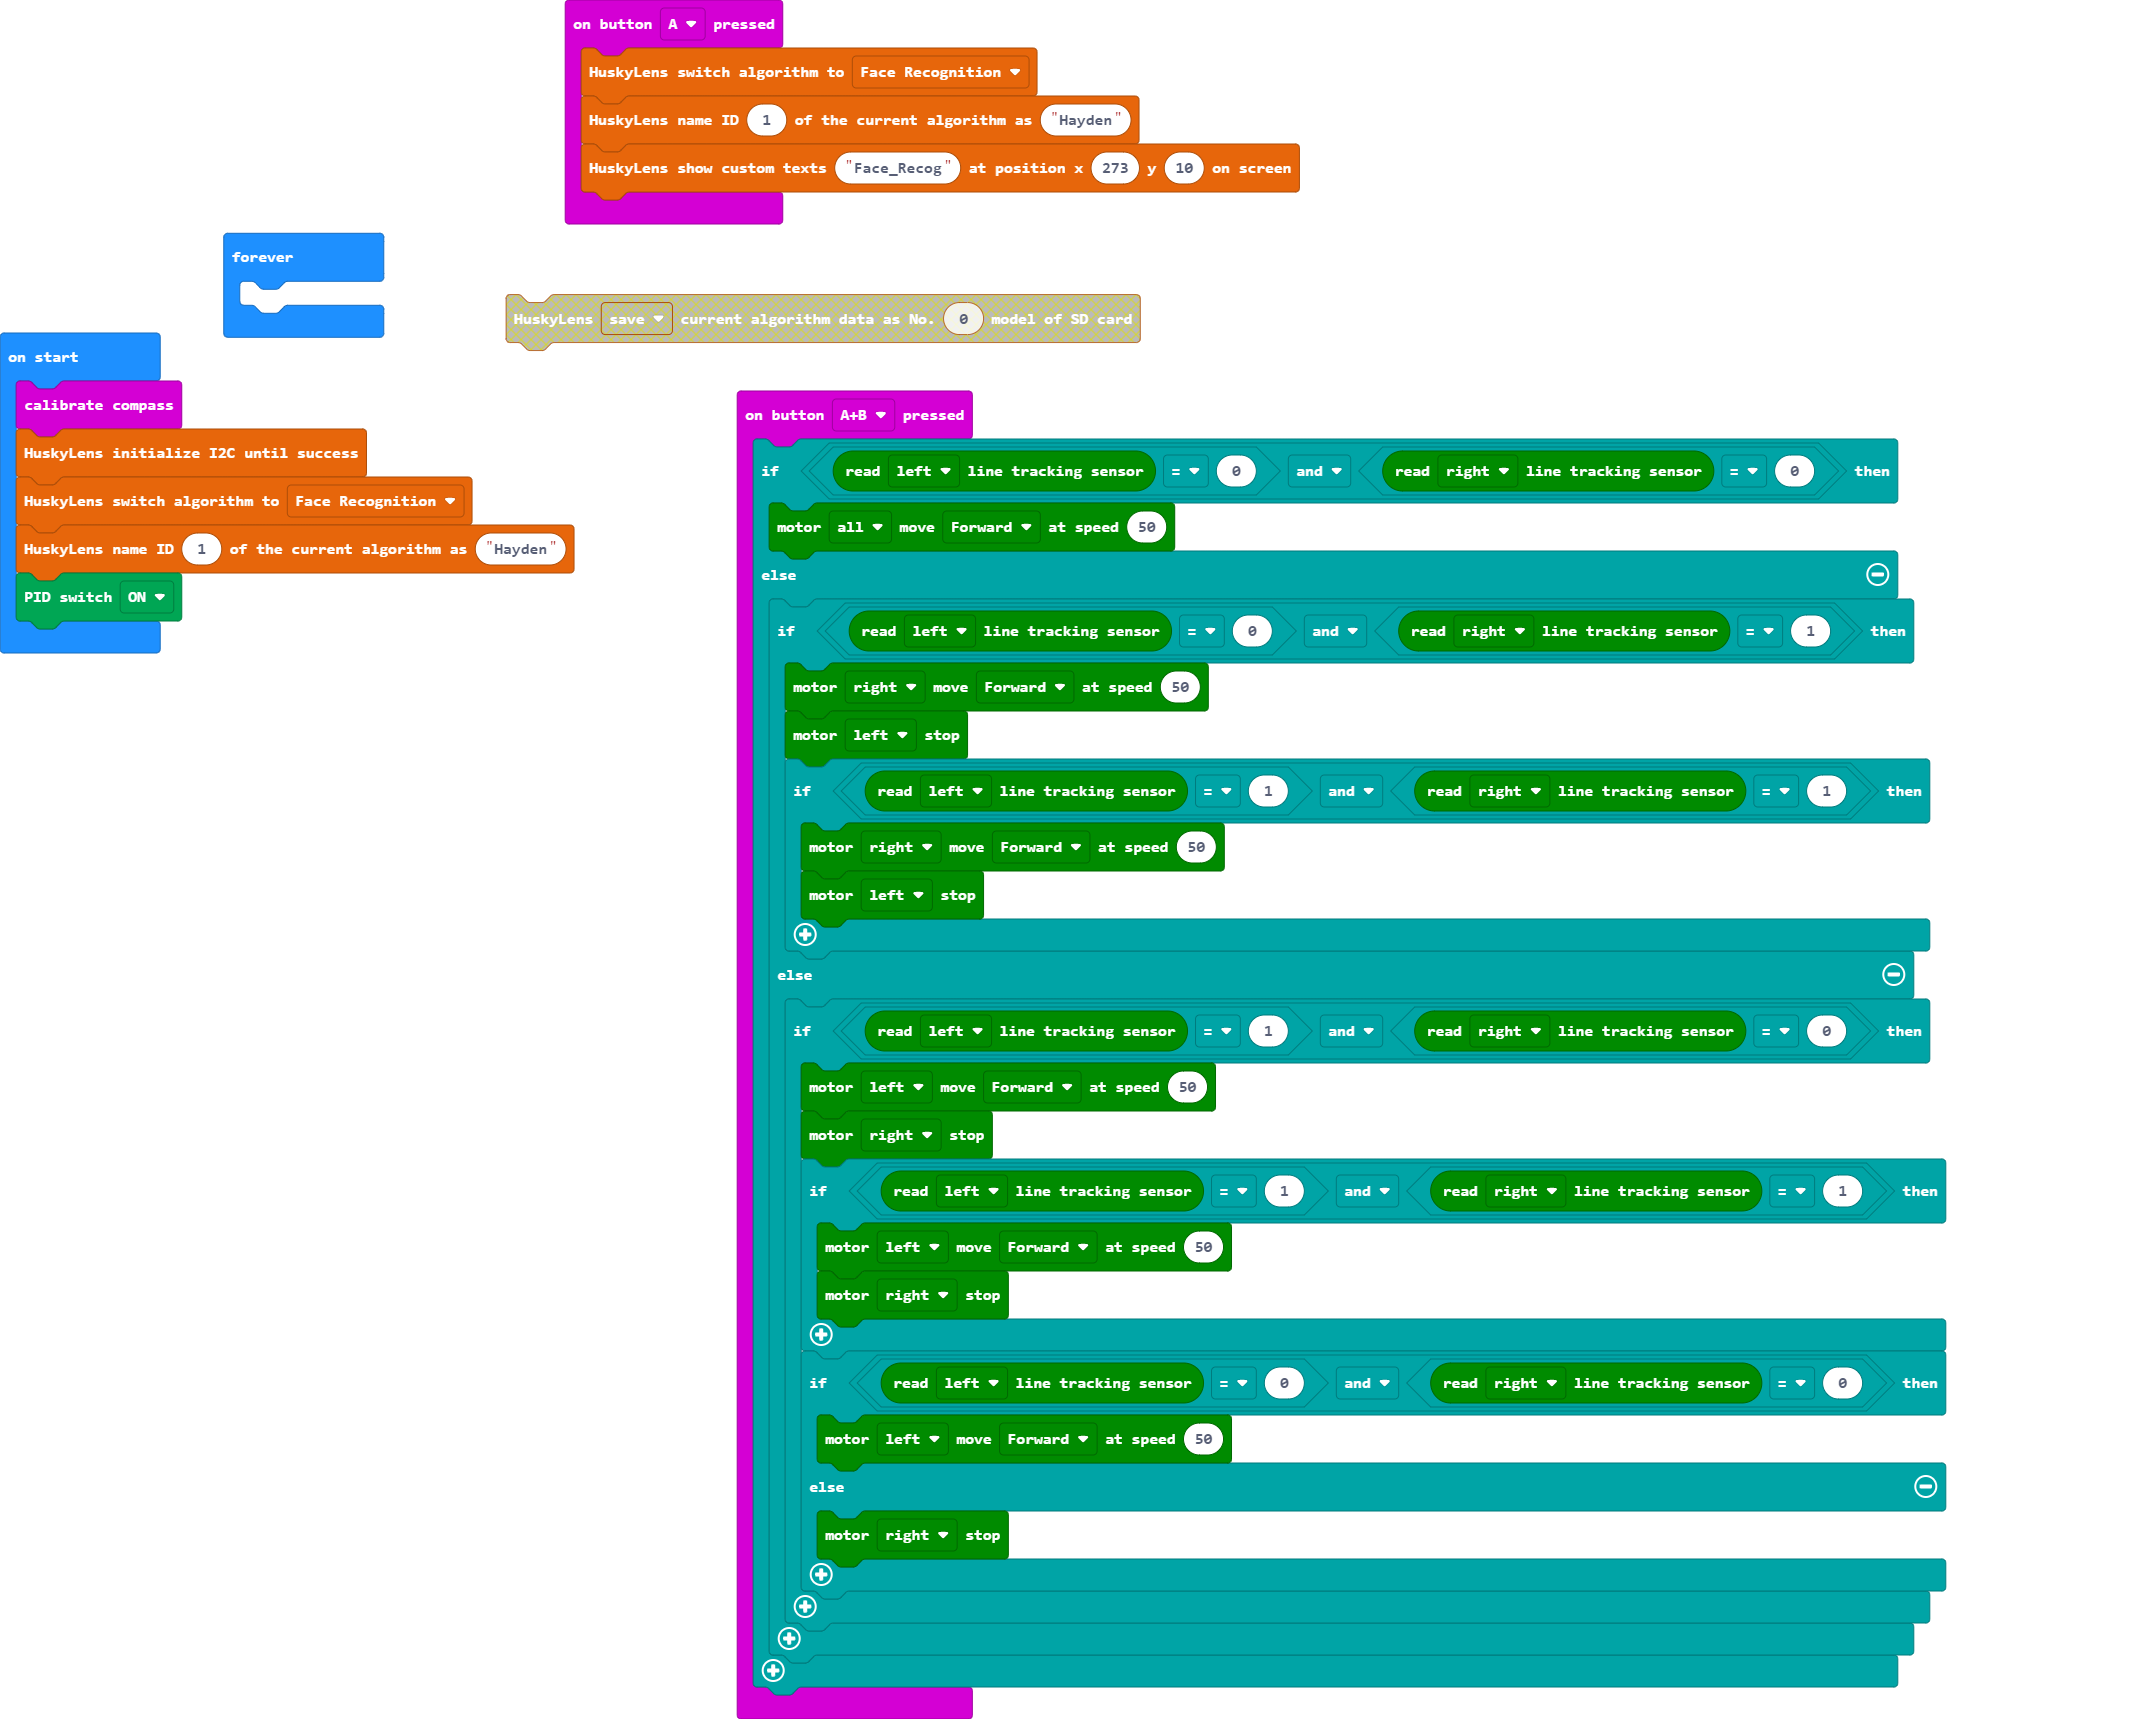
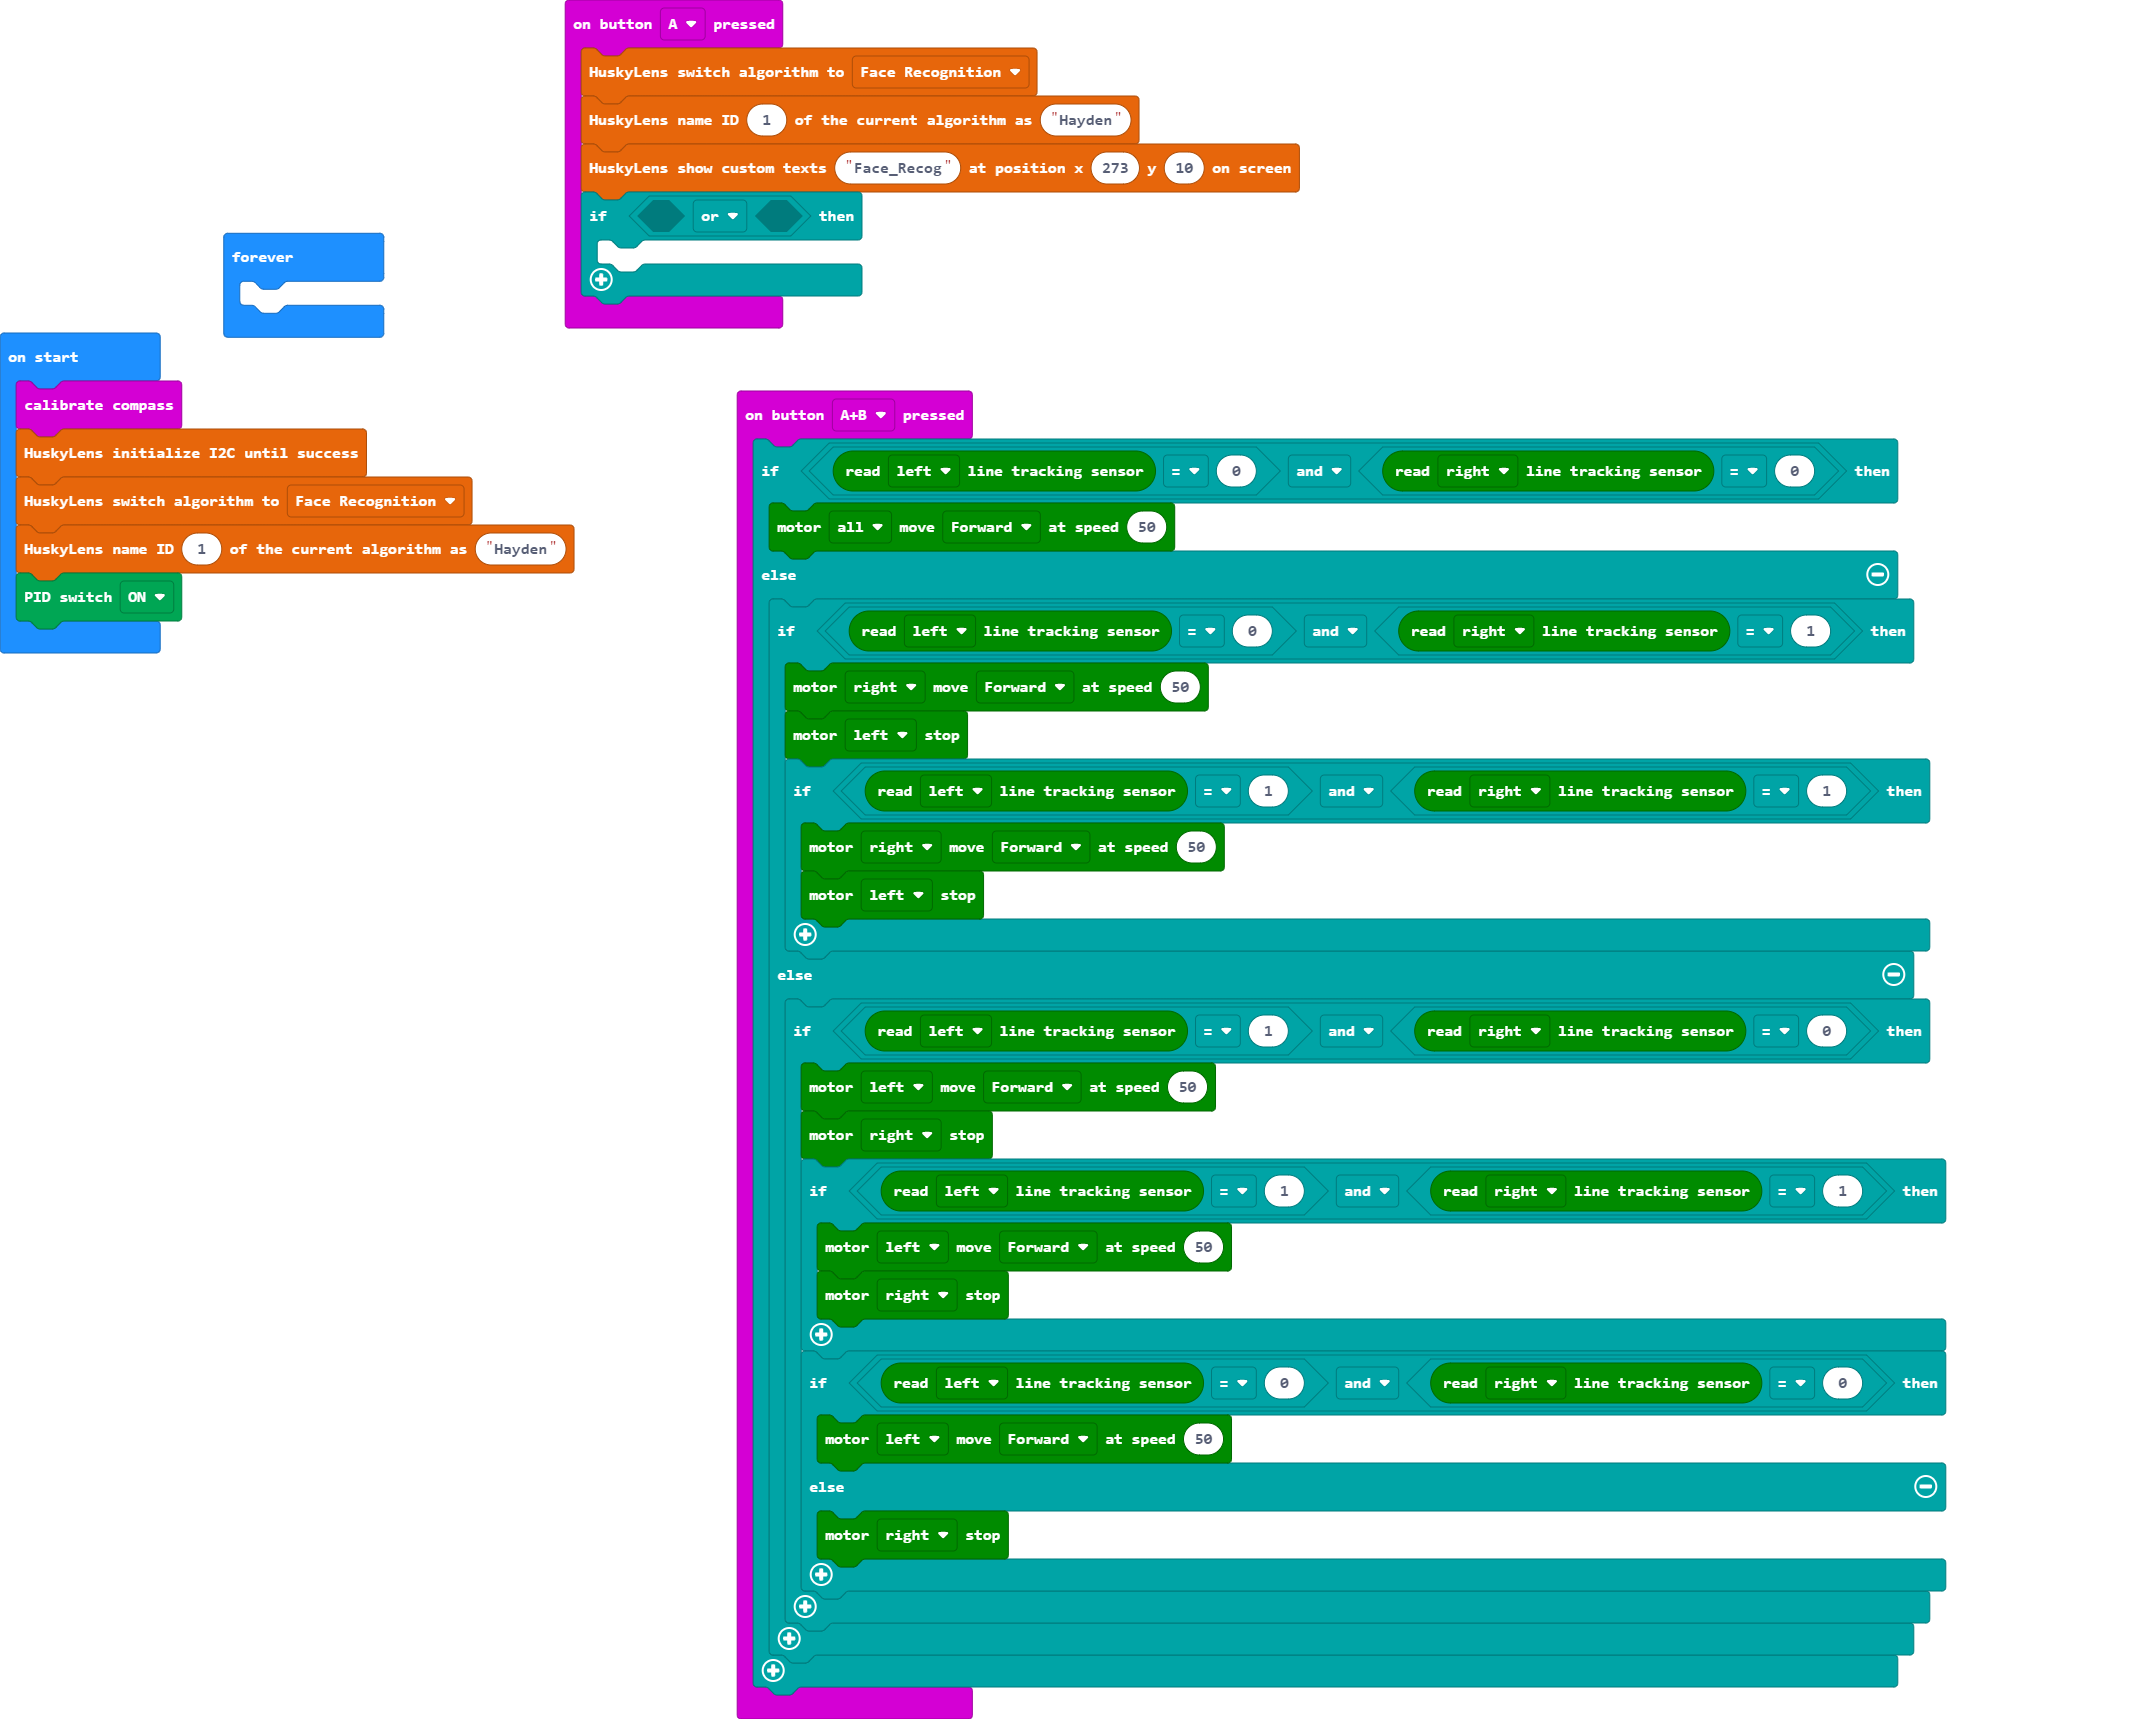
Update main.blocks, main.ts

Changed region(s): [[0.2177, 0.0925, 0.5288, 0.2158]]

diff --git a/main.ts b/main.ts
@@ -2,6 +2,9 @@ input.onButtonPressed(Button.A, function () {
     huskylens.initMode(protocolAlgorithm.ALGORITHM_FACE_RECOGNITION)
     huskylens.writeName(1, "Hayden")
     huskylens.writeOSD("Face_Recog", 273, 10)
+    if (false || false) {
+    	
+    }
 })
 input.onButtonPressed(Button.AB, function () {
     if (maqueen.readPatrol(maqueen.Patrol.PatrolLeft) == 0 && maqueen.readPatrol(maqueen.Patrol.PatrolRight) == 0) {
